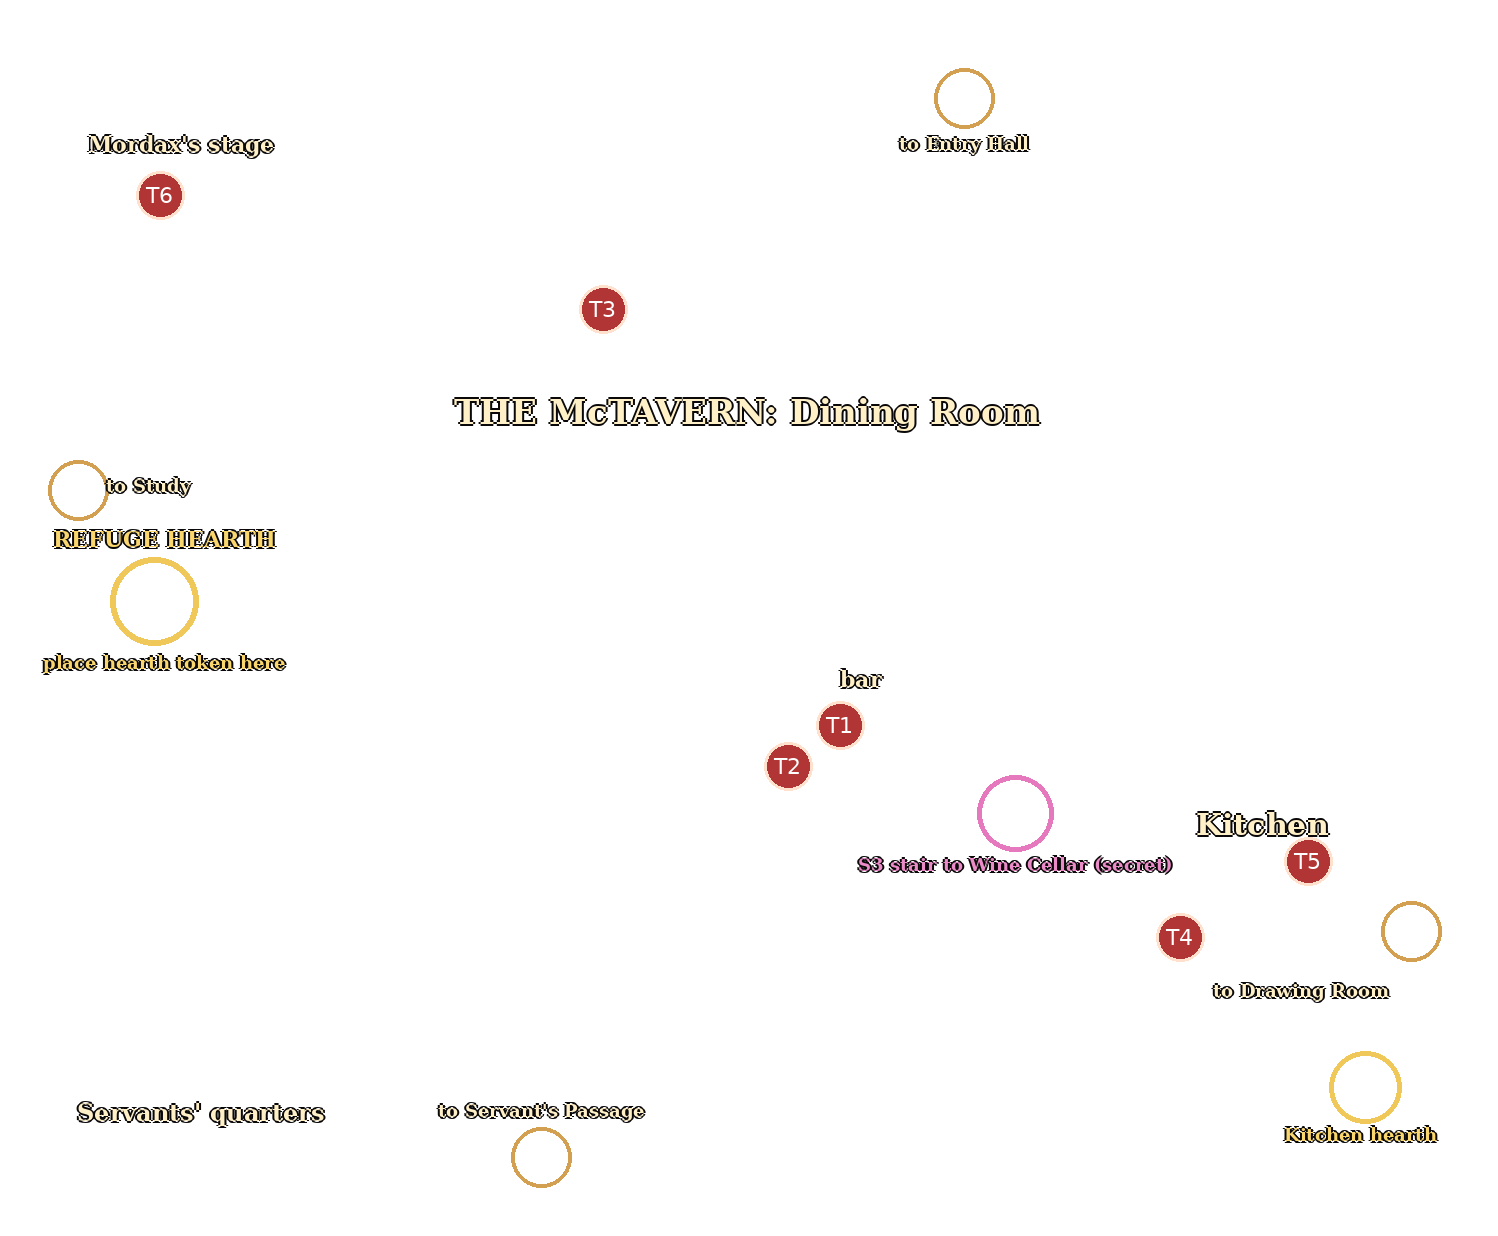
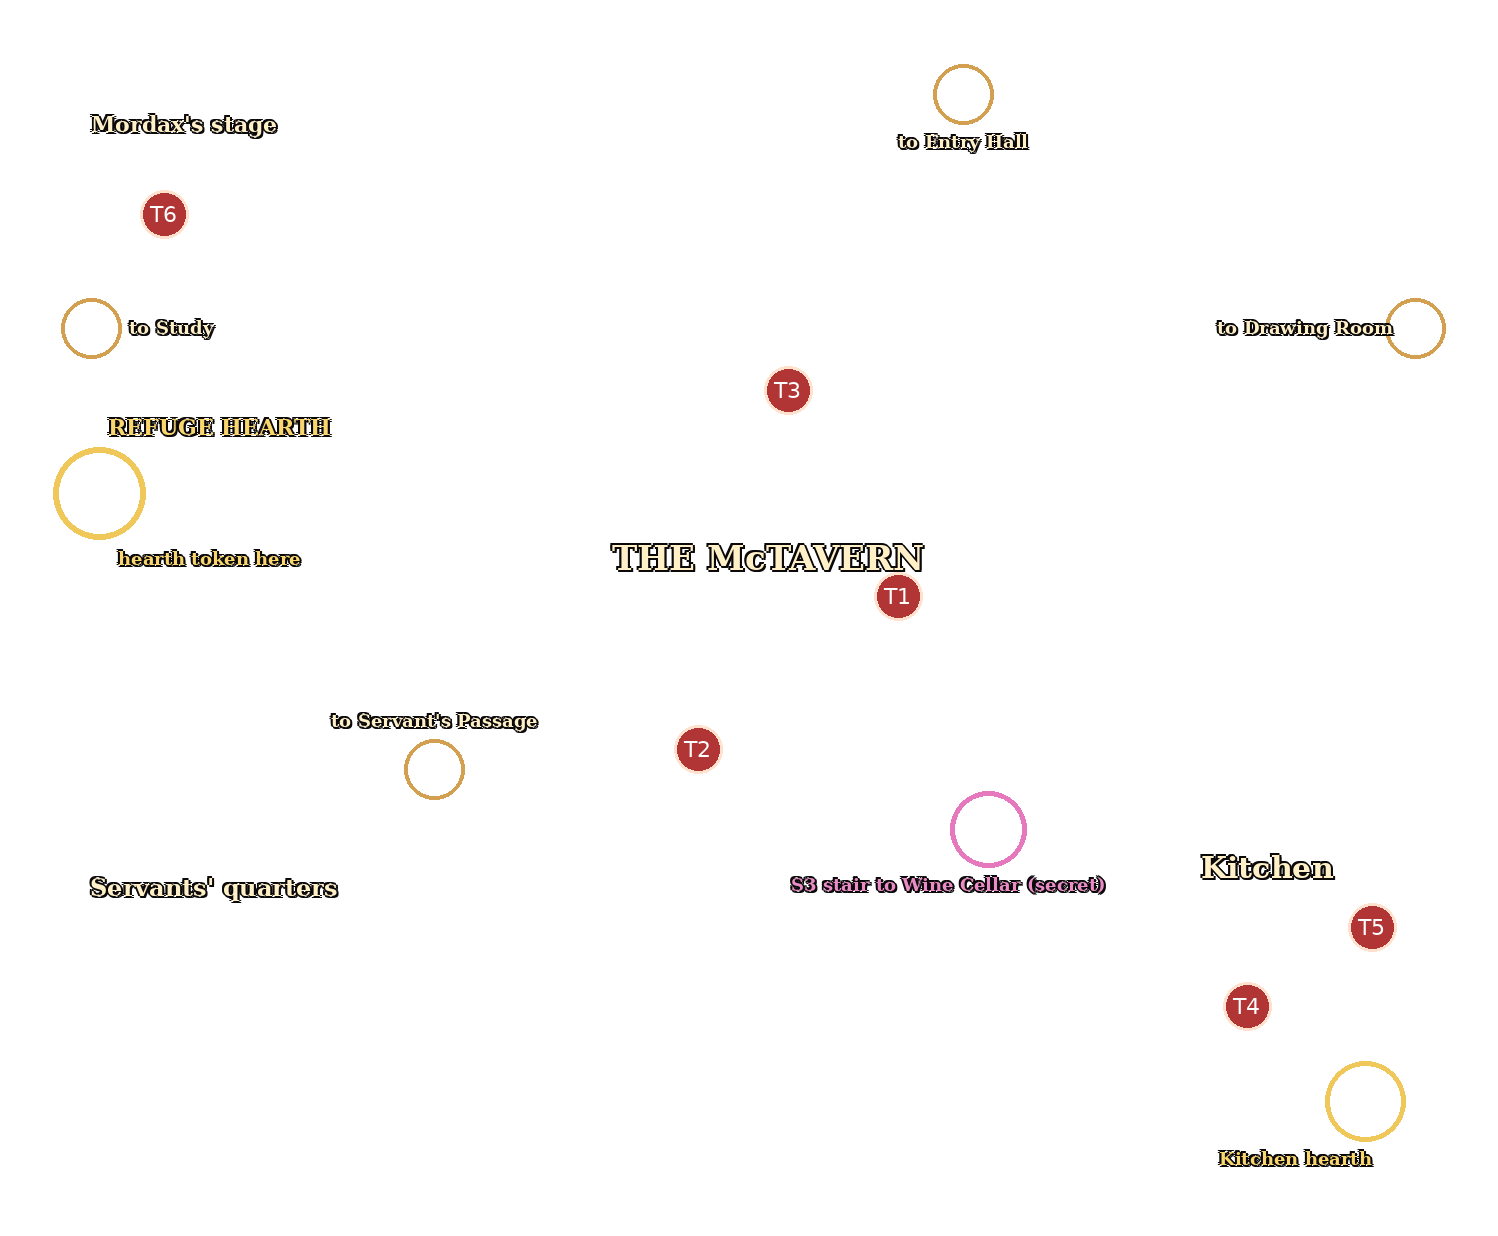
Rebuild McTavern overlay aligned to the real map
Claude-Session: https://claude.ai/code/session_01SwUQ4kQgDApogPCcGmJr4R

diff --git a/_shared/tools/make_mctavern.py b/_shared/tools/make_mctavern.py
@@ -1,43 +1,30 @@
+"""McTavern overlay (transparent, 1498x1236). Coordinates are measured on the actual McTavern map image.
+The map art itself is third-party and is never stored in the public repo."""
 from PIL import Image, ImageDraw, ImageFont
+import sys
 W,H=1498,1236
-k=1236/600.0; ox=37
-def c(sx,sy): return (int((sx-ox)*k/ (1.0) *1.0/ (1.0)) if False else int((sx-ox)/ (600/1236.0)), int(sy/(600/1236.0)))
+SX=W/1501.0; SY=H/1240.0
+def c(x,y): return (int(x*SX),int(y*SY))
 F="/usr/share/fonts/truetype/dejavu/DejaVuSerif-Bold.ttf"; FS="/usr/share/fonts/truetype/dejavu/DejaVuSans.ttf"
 def f(s,p=F): return ImageFont.truetype(p,s)
 im=Image.new("RGBA",(W,H),(0,0,0,0)); d=ImageDraw.Draw(im)
 def lab(t,p,sz=26,col=(255,240,200,255),anchor="mm"):
-    for dx,dy in ((-2,0),(2,0),(0,2),(0,-2)): d.text((p[0]+dx,p[1]+dy),t,font=f(sz),fill=(10,8,8,255),anchor=anchor)
+    for dx,dy in ((-2,0),(2,0),(0,2),(0,-2),(2,2),(-2,-2)): d.text((p[0]+dx,p[1]+dy),t,font=f(sz),fill=(10,8,8,255),anchor=anchor)
     d.text(p,t,font=f(sz),fill=col,anchor=anchor)
-def haz(id,p):
+def haz(i,p):
     r=24; d.ellipse([p[0]-r,p[1]-r,p[0]+r,p[1]+r],fill=(170,36,36,235),outline=(255,225,205,255),width=3)
-    d.text(p,id,font=f(22,FS),fill=(255,255,255,255),anchor="mm")
+    d.text(p,i,font=f(22,FS),fill=(255,255,255,255),anchor="mm")
 def ring(p,col,r=44,w=6):
     d.ellipse([p[0]-r,p[1]-r,p[0]+r,p[1]+r],outline=col,width=w)
-
-items={}
-# refuge hearth token location (left wall nook)
-hearth=c(112,292); ring(hearth,(240,200,90,255)); lab("REFUGE HEARTH",(hearth[0]+10,hearth[1]-62),22,(250,215,110,255)); lab("place hearth token here",(hearth[0]+10,hearth[1]+62),18,(250,215,110,255))
-# room labels
-lab("THE McTAVERN: Dining Room",c(400,200),34)
-lab("Mordax's stage",c(125,70),22)
-lab("Kitchen",c(650,400),30)
-lab("Servants' quarters",c(135,540),24)
-lab("bar",c(455,330),22)
-# cellar stair (S3)
-p=c(530,395); ring(p,(230,120,190,255),38,5); lab("S3 stair to Wine Cellar (secret)",(p[0],p[1]+52),18,(235,140,200,255))
-# kitchen hearth
-kh=c(700,528); ring(kh,(240,200,90,255),36,5); lab("Kitchen hearth",(kh[0]-5,kh[1]+48),18,(250,215,110,255))
-# doors
-for name,pt,off in (("to Entry Hall",c(505,48),(0,46)),("to Study",c(75,238),(70,-4)),("to Drawing Room",c(722,452),(-110,60)),("to Servant's Passage",c(300,562),(0,-46))):
+GOLD=(250,215,110,255); PINK=(235,140,200,255)
+hearth=c(100,495); ring(hearth,(240,200,90,255),46,6); lab("REFUGE HEARTH",(hearth[0]+120,hearth[1]-66),22,GOLD); lab("hearth token here",(hearth[0]+110,hearth[1]+66),18,GOLD)
+lab("THE McTAVERN",c(770,560),34); lab("Mordax's stage",c(185,125),22)
+lab("Kitchen",c(1270,870),30); lab("Servants' quarters",c(215,890),24)
+p=c(990,832); ring(p,(230,120,190,255),38,5); lab("S3 stair to Wine Cellar (secret)",(p[0]-40,p[1]+56),18,PINK)
+kh=c(1368,1105); ring(kh,(240,200,90,255),40,5); lab("Kitchen hearth",(kh[0]-70,kh[1]+58),18,GOLD)
+for name,pt,off in (("to Entry Hall",c(965,95),(0,48)),("to Study",c(92,330),(80,0)),("to Drawing Room",c(1418,330),(-110,0)),("to Servant's Passage",c(435,772),(0,-48))):
     ring(pt,(210,160,80,255),30,4); lab(name,(pt[0]+off[0],pt[1]+off[1]),18)
-# hazards (see Session1_Hazards.md)
-H=[("T1",c(445,352)),("T2",c(420,372)),("T3",c(330,150)),("T4",c(610,455)),("T5",c(672,418)),("T6",c(115,95))]
-for i,pt in H: haz(i,pt)
-# 30px grid hint off; save
+for i,pt in [("T1",c(900,598)),("T2",c(700,752)),("T3",c(790,392)),("T4",c(1250,1010)),("T5",c(1375,930)),("T6",c(165,215))]: haz(i,pt)
 im.save("Session1_McTavern_Overlay.png")
-# check composite on screenshot
-bg=Image.open("/root/.claude/projects/-home-claude/fdf7333d-f120-5114-96b4-56f930e860eb/tool-results/mcp-remote-devices-blob-1791843884963-eqas3q.jpg").convert("RGBA")
-scale=600/1236.0
-ov=im.resize((int(1498*scale),600))
-bg.alpha_composite(ov,(ox,0)); bg.convert("RGB").save("/tmp/mct_check.png")
-print(hearth)
+if len(sys.argv)>1:   # local alignment check only; never saved to the repo
+    bg=Image.open(sys.argv[1]).convert("RGBA").resize((W,H)); bg.alpha_composite(im); bg.convert("RGB").resize((1000,int(1000*H/W))).save(sys.argv[2])

diff --git a/campaigns/halloween-2026/dm/Workstreams.md b/campaigns/halloween-2026/dm/Workstreams.md
@@ -28,7 +28,8 @@ Last updated: Oct 13, 2026
 - [ ] Player-facing handout versions of the maps (framed, no hazards or secrets), if wanted
 - [ ] Nice-to-have later: nicer statues, painted-style touches, cellar boiler pit and hanging figures, McTavern stand-in
 - [ ] Build the AboveVTT scenes from the `main` links (`campaigns/halloween-2026/maps/LINKS.md`)
-- [ ] McTavern original file: copy it into the campaign folder (`maps/source/`) so I can align the overlay exactly and make a DM reference sheet. Only the McTavern uses an original file; all other maps are generated.
+- [x] McTavern original saved locally in `maps/source/` (private, never pushed); overlay rebuilt and aligned to the real art Oct 13. Only the McTavern uses an original file; all other maps are generated.
+- [ ] McTavern DM reference sheet (framed, legend, hazard key) built from the original, for private use only
 - [ ] Decide the McTavern's role: (1) opening scene and refuge only, (2) hub every route returns to, or (3) the frame for all four sessions
 - [ ] Test the McTavern overlay alignment, hearth tokens and clickable dice in token notes
 - [x] Maps hosted and loading in AboveVTT (tested Oct 13)
